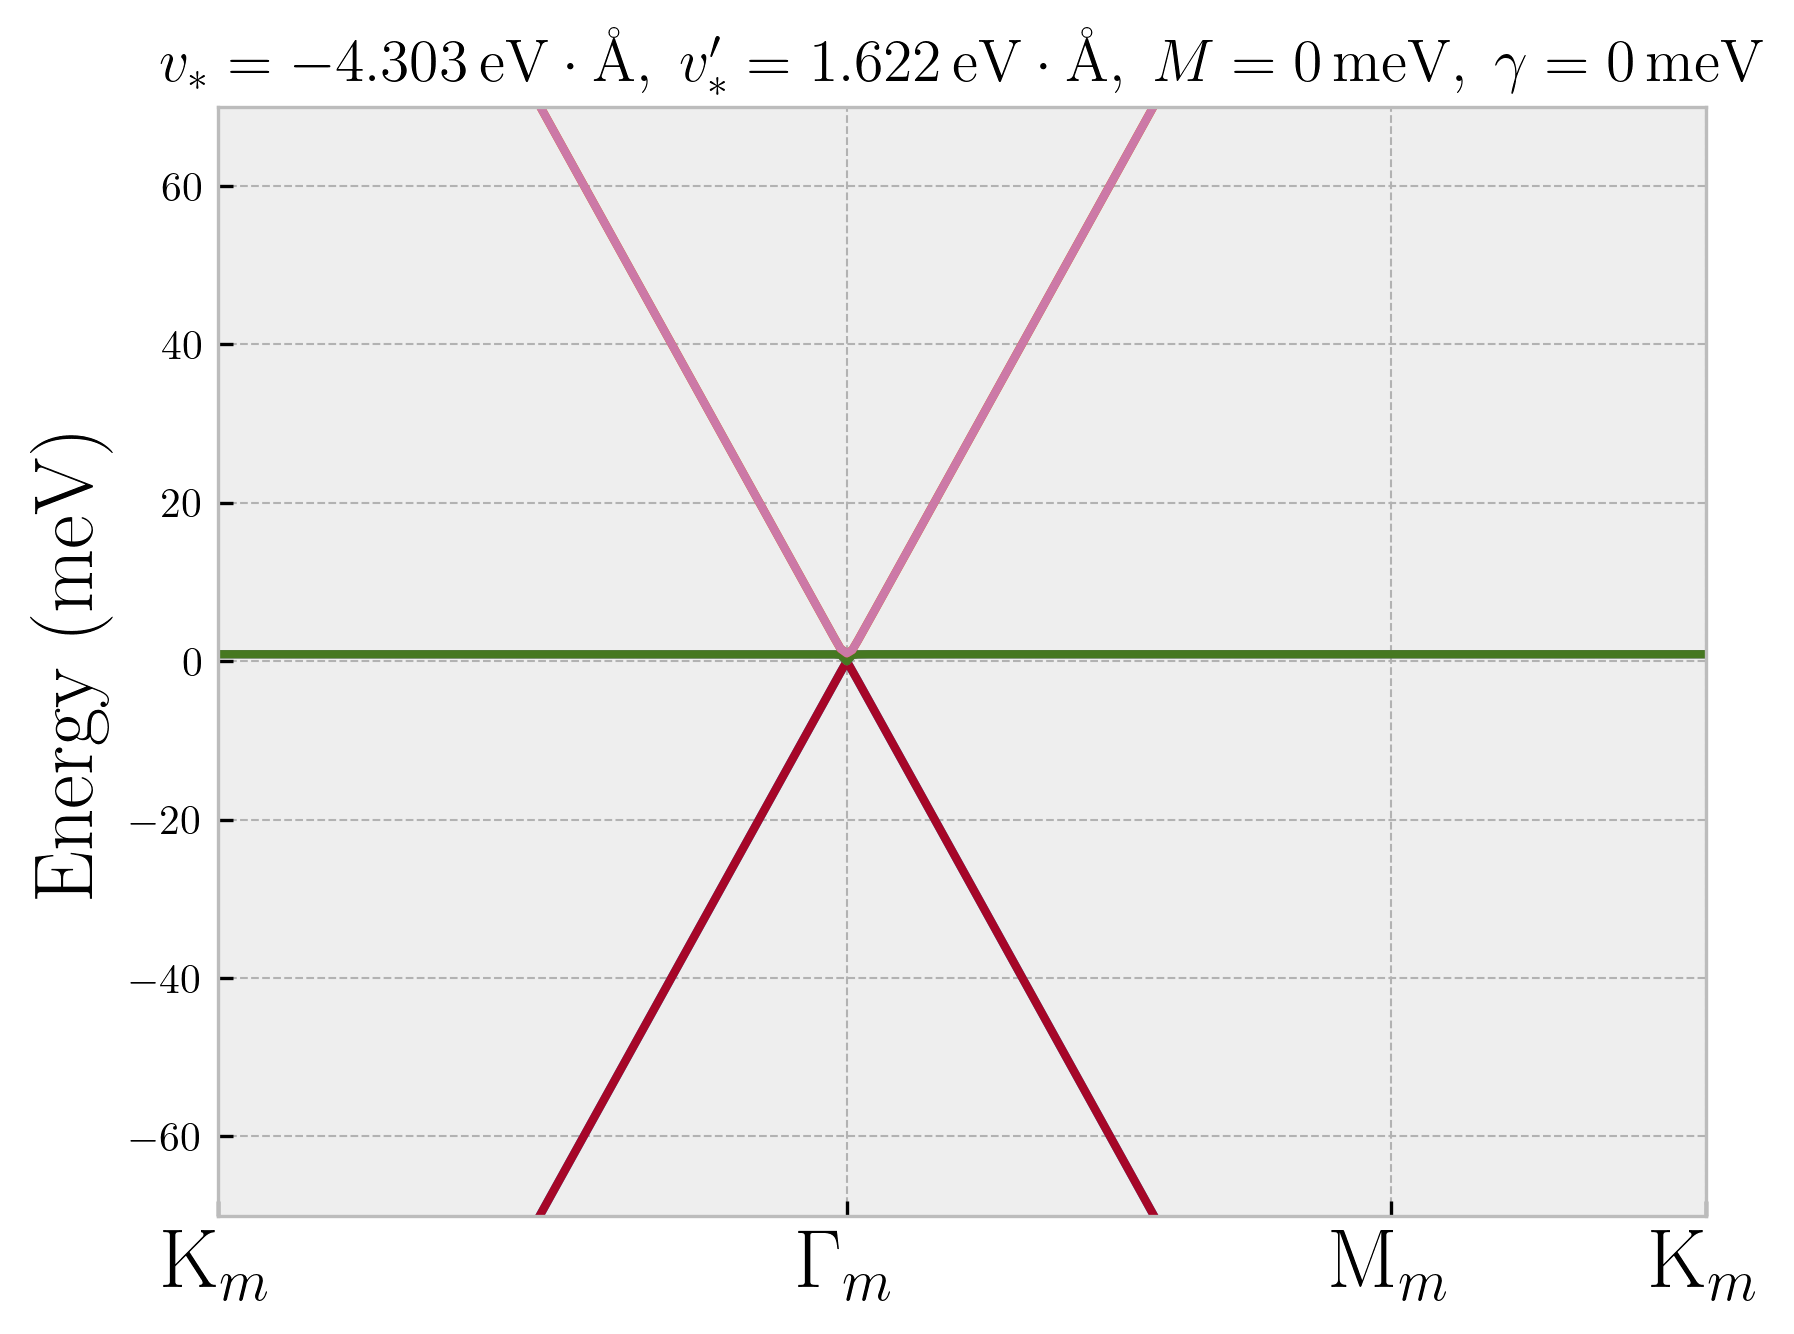
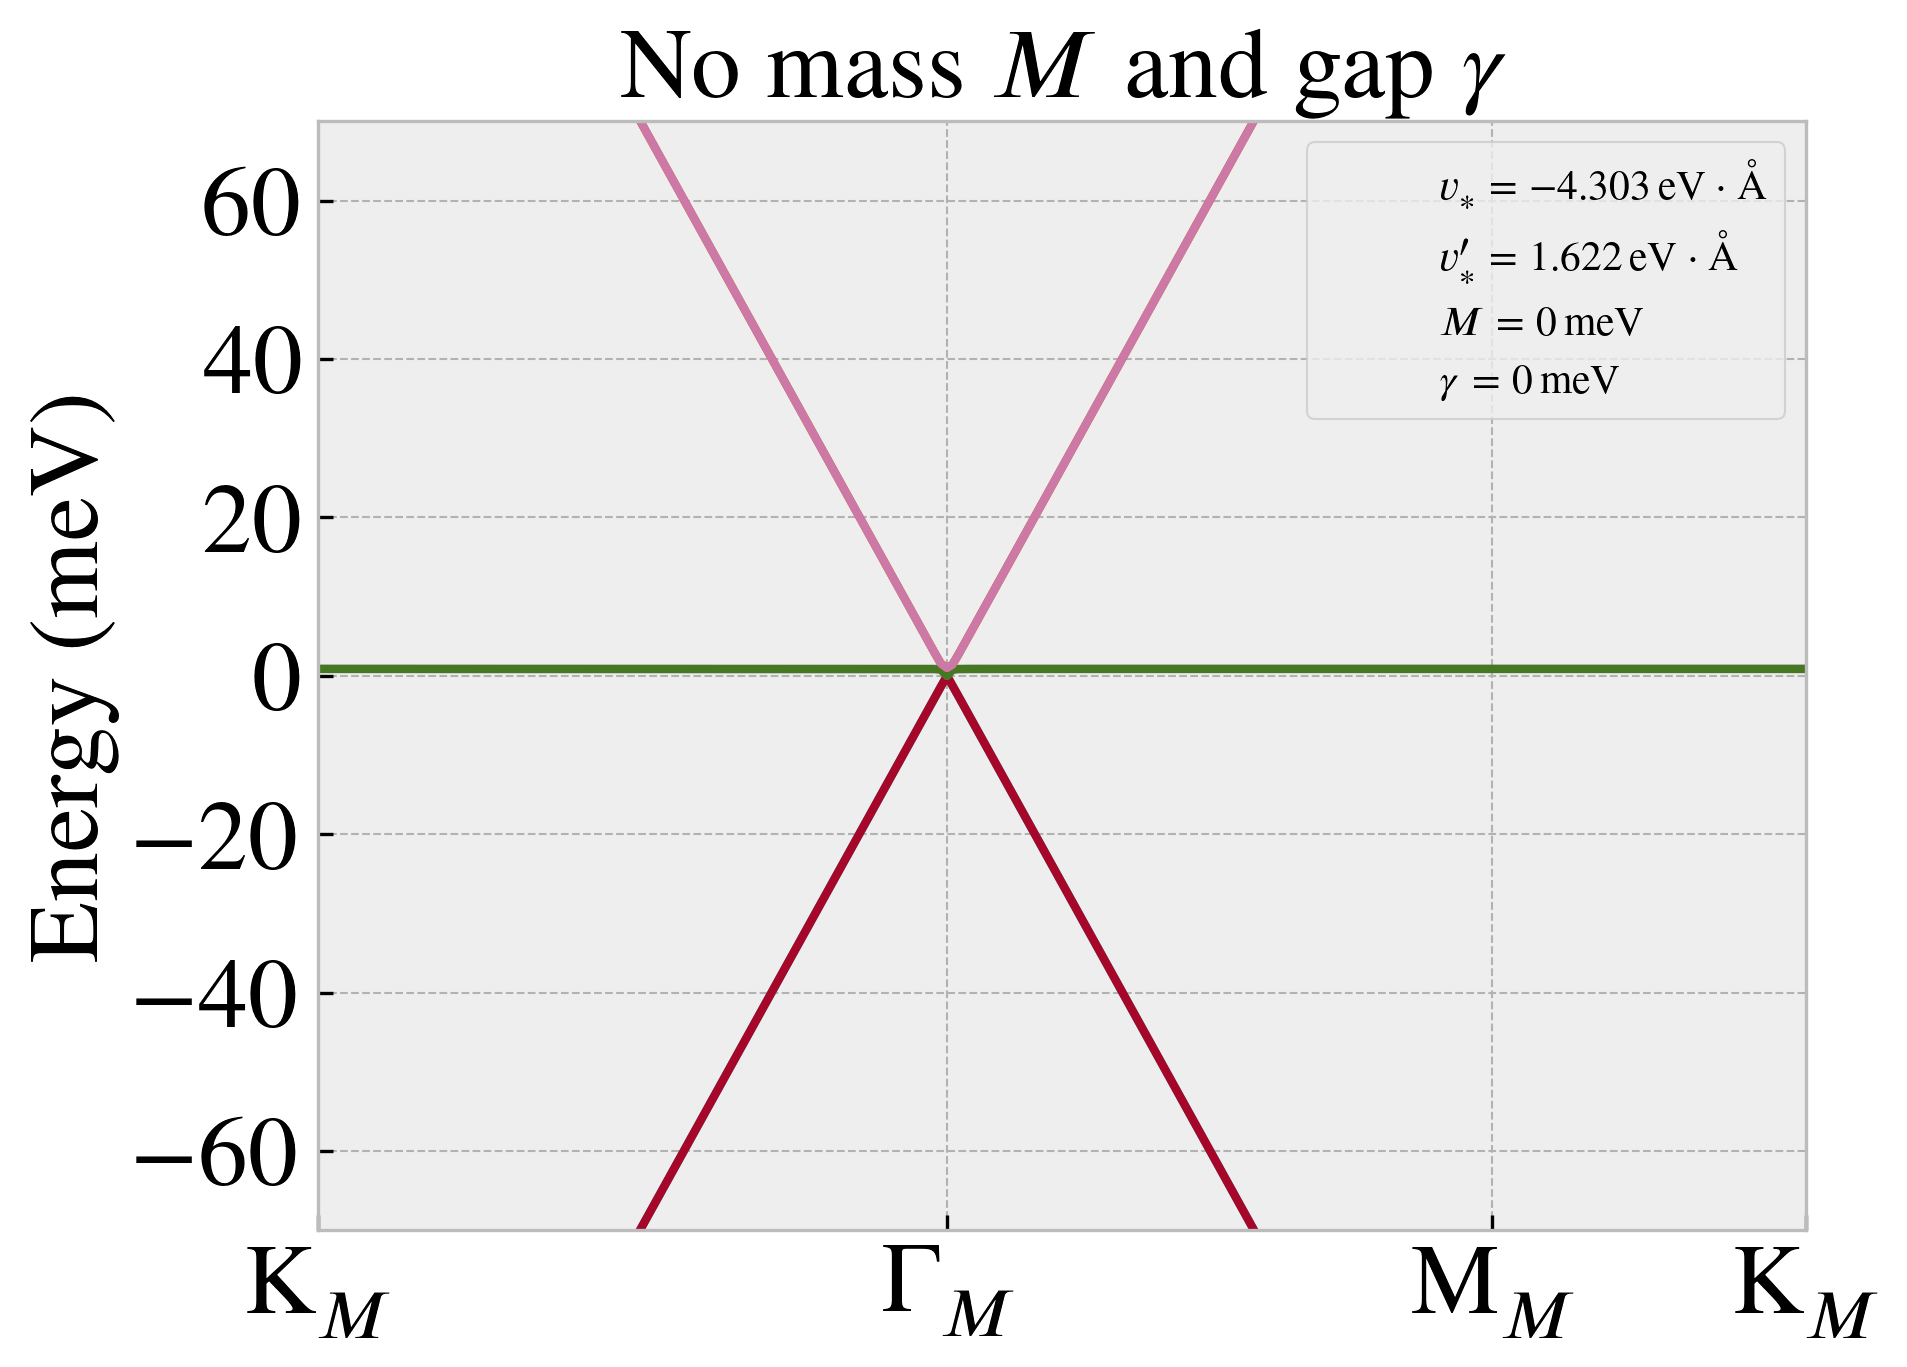
Updating some things according to the CPG report

diff --git a/latex/4-topoheavyfermion.tex b/latex/4-topoheavyfermion.tex
@@ -1,44 +1,14 @@
-%%%%%%%%%%%%%%%%%%%%%%%%%%%%%%% COMMENT THIS TO COMPILE main.tex %%%%%%%%%%%%%%%%%%%%%%%%%%%%%%%%
-\input{preamble}
-\begin{document}
-%%%%%%%%%%%%%%%%%%%%%%%%%%%%%%% COMMENT THIS TO COMPILE main.tex %%%%%%%%%%%%%%%%%%%%%%%%%%%%%%%%
+%%%%%%%%%%%%%%%%%%%%%%%%%%%%%%%% COMMENT THIS TO COMPILE main.tex %%%%%%%%%%%%%%%%%%%%%%%%%%%%%%%%
+%\input{preamble}
+%\begin{document}
+%%%%%%%%%%%%%%%%%%%%%%%%%%%%%%%% COMMENT THIS TO COMPILE main.tex %%%%%%%%%%%%%%%%%%%%%%%%%%%%%%%%
 
 
 %%%%%%%%%%%%%%%%%%%%%%%%%%%%%%%%%%%%%%%%%%%%%%%%%%%%%%%%%%%%%%%%%%%%%%%%%%%%%%%%%%%%%%%%%%%%%%%%%%
 \chapter{Topological heavy fermion}
 %%%%%%%%%%%%%%%%%%%%%%%%%%%%%%%%%%%%%%%%%%%%%%%%%%%%%%%%%%%%%%%%%%%%%%%%%%%%%%%%%%%%%%%%%%%%%%%%%%
 
-As proved in \cite{all_magic_angles}, when one includes the emergent particle-hole symmetry, the middle two flat bands in each valley must form the irreducible co-representations (dubbed as irreps) (\textbf{Lowest TBG Bands set by PH})
-\begin{equation} \label{eq:matbg-irreps}
-\Gamma_1 \oplus \Gamma_2; \; M_1 \oplus M_2; \; K_2 K_3
-\end{equation}
-of the magnetic space group $P6'2'2$. Comparing this irreps with the EBRs \cite{topological_quantum_chemistry2017}, we get the Table \ref{tab:matbg-irreps}. We see that the irreps at Equation \ref{eq:matbg-irreps} do not correspond to any of the local orbitals at \ref{tab:matbg-irreps}. In order to resolve the Wannier obstruction, we add the closest higher energy bands, which have the $\Gamma_3$ irrep at the $\Gamma_m$ point. These higher energy bands hybridize with the two middle ones, and we extract the trivial bands that form the band representation
-\begin{equation} \label{eq:trivial-irreps}
-[E]_a \uparrow G: \quad \Gamma_3; \; M_1 \oplus M_2; \; K_2 K_3,
-\end{equation}
-where $[E]_a$ is forme by $p_x, p_y$-like orbitals at the $1a$ Wyckoff position.
-
-\begin{table}[H]
-\tiny
-\caption{Elementary band representations of the magnetic space group $P6'2'2$.}
-\centering
-\begin{tabular}{|c|c|c|c|c|c|c|c|c|}
-\hline
-Wyckoff & \multicolumn{3}{c|}{$1a$} & \multicolumn{3}{c|}{$2c$} & \multicolumn{2}{c|}{$3f$} \\
-\cline{1-9}
-Site sym. & \multicolumn{3}{c|}{$6'2'2$, $32$} & \multicolumn{3}{c|}{$32$, $32$} & \multicolumn{2}{c|}{$2'2'2$, $2$} \\
-\cline{1-9}
-EBR & $G_{A_1}^{1a}(1)$ & $G_{A_2}^{1a}(1)$ & $G_{E}^{1a}(2)$ & $G_{A_1}^{2c}(2)$ & $G_{A_2}^{2c}(2)$ & $G_{E}^{2c}(4)$   & $G_{A}^{3f}(3)$ & $G_{B}^{3f}(3)$ \\
-\hline
-$\Gamma$ & $\Gamma_1(1)$ & $\Gamma_2(1)$ & $\Gamma_3(1)$ & $2\Gamma_1(1)$ & $2\Gamma_2(1)$ & $2\Gamma_3(2)$ & $\Gamma_1(1)+\Gamma_3(2)$ & $\Gamma_2(1)+\Gamma_3(2)$ \\
-\hline
-$K$ & $K_1(1)$ & $K_1(1)$ & $K_2 K_3(2)$ & $K_2 K_3(2)$ & $K_2 K_3(2)$ & $2K_1(1) + K_2 K_3(2)$ & $K_1(1)+K_2 K_3(2)$ & $K_1(1)+K_2 K_3(2)$ \\
-\hline
-$M$ & $M_1(1)$ & $M_2(1)$ & $M_1(1)+M_2(1)$ & $2M_1(1)$ & $2M_2(1)$ & $2M_1(1)+2M_2(1)$ & $2M_1(1)+M_2(1)$ & $M_1(1)+2M_2(2)$ \\
-\hline
-\end{tabular}
-\label{tab:matbg-irreps}
-\end{table}
+The representations and Elementary Band Representations (EBRs) for a given (magnetic) space group, such as \( P6'2'2 \), can be conveniently obtained from the Bilbao Crystallographic Server \cite{bilbao_1, bilbao_2}.
 
 \begin{table}[H]
 \caption{Character table of irreps at high symmetry momenta in magnetic space group $P6'2'2$.}
@@ -54,6 +24,91 @@ $3 C_2'$ & $\P1$ & $ -1$ & $\P0$ & $\P$ & $\P$ & $\P$ & $\P C_3^{-1}$ & $\P1$ & 
 \end{tabular}
 \label{tab:P6'2'2}
 \end{table}
+
+\begin{table}[H]
+\footnotesize
+\caption{Elementary band representations of the magnetic space group $P6'2'2$.}
+\centering
+\begin{tabular}{|c|c|c|c|c|c|c|c|c|}
+\hline
+Wyckoff & \multicolumn{3}{c|}{$1a$} & \multicolumn{3}{c|}{$2c$} & \multicolumn{2}{c|}{$3f$} \\
+\cline{1-9}
+Site sym. & \multicolumn{3}{c|}{$6'2'2$, $32$} & \multicolumn{3}{c|}{$32$, $32$} & \multicolumn{2}{c|}{$2'2'2$, $2$} \\
+\cline{1-9}
+EBR & $G_{A_1}^{1a}(1)$ & $G_{A_2}^{1a}(1)$ & $G_{E}^{1a}(2)$ & $G_{A_1}^{2c}(2)$ & $G_{A_2}^{2c}(2)$ & $G_{E}^{2c}(4)$   & $G_{A}^{3f}(3)$ & $G_{B}^{3f}(3)$ \\
+\hline
+$\Gamma$ & $\Gamma_1$ & $\Gamma_2$ & $\Gamma_3$ & $2\Gamma_1$ & $2\Gamma_2$ & $2\Gamma_3$ & $\Gamma_1+\Gamma_3$ & $\Gamma_2+\Gamma_3$ \\
+\hline
+$K$ & $K_1$ & $K_1$ & $K_2 K_3$ & $K_2 K_3$ & $K_2 K_3$ & $2K_1 + K_2 K_3$ & $K_1+K_2 K_3$ & $K_1+K_2 K_3$ \\
+\hline
+$M$ & $M_1$ & $M_2$ & $M_1+M_2$ & $2M_1$ & $2M_2$ & $2M_1+2M_2$ & $2M_1+M_2$ & $M_1+2M_2$ \\
+\hline
+\end{tabular}
+\label{tab:matbg-irreps}
+\end{table}
+
+As demonstrated in \cite{all_magic_angles}, incorporating the emergent particle-hole symmetry within the One Valley BM model ensures that the middle two flat bands in each valley align with the irreducible co-representations (irreps):
+\begin{equation} \label{eq:matbg-irreps}
+\Gamma_1(1) \oplus \Gamma_2(1); \; M_1(1) \oplus M_2(1); \; K_2 K_3(2),
+\end{equation}
+associated with the magnetic space group \( P6'2'2 \). The characters for each of these irreps, referenced in Equation \ref{eq:matbg-irreps}, are presented in Table \ref{tab:P6'2'2}.
+
+
+By comparing the irreps in Equation \ref{eq:matbg-irreps} with the EBRs in Table \ref{tab:matbg-irreps}, we observe that the irreps in Equation \ref{eq:matbg-irreps} cannot be expressed as a direct sum of the local orbitals listed in Table \ref{tab:matbg-irreps}. In fact, if we permit negative coefficients, the irreps can only be expressed as the linear combination \( G_{A_1}^{2c} + G_{A_2}^{1a} - G_{A_1}^{1a} \). The presence of a negative coefficient indicates that the two flat bands must host at least a fragile topological phase \cite{FragileTopology_Po2018}, leading to a Wannier obstruction.
+
+To resolve this Wannier obstruction, we incorporate the nearest higher-energy bands, which are characterized by the \(\Gamma_3\) irrep at the \(\Gamma_M\) point \cite{topoheavyfermion2022}. These higher-energy bands hybridize with the two middle bands, allowing us to isolate the trivial bands. These trivial bands form the band representation:
+\begin{equation} \label{eq:trivial-irreps}
+G_E^{1a}(2) = [E]_{1a} \uparrow G: \quad \Gamma_3(2); \; M_1(1) \oplus M_2(1); \; K_2 K_3(2),
+\end{equation}
+where \([E]_{1a}\) corresponds to \(p_x \pm i p_y\)-like orbitals at the \(1a\) Wyckoff position.
+
+We ``borrow'' a $\Gamma_3$ irrep from these higher-energy bands to replace the $\Gamma_1 \oplus \Gamma_2$ states. The resulting irreps $\Gamma_3$, $M_1 \oplus M_2$, $K_2 K_3$ are consistent with $p_x \pm i p_y$ orbitals on a triangular lattice. To model this, Gaussian Wannier functions (WFs) that transform as $p_x \pm i p_y$ under the crystal symmetries are introduced.
+
+Using the maximal localization procedure \cite{maxlocalWFs_marzari2012, wannier90}, we find that these WFs are highly localized, supported by flat band states away from $\Gamma_M$, and by low-energy states near $\Gamma_M$. However, to fully account for the superconducting properties, it is crucial to include the remaining states. To achieve this, we define projectors $\bP$ (onto the WFs) and $\I$ (onto the lowest six bands per spin-valley), and decompose the BM Hamiltonian $H_\text{BM}$ into the following components:
+\begin{equation} \label{eq:projected_hamiltonians_WFs_PQ}
+H^{(f)} = \bP H_\text{BM} \bP, \quad H^{(c)} = \bQ H_\text{BM} \bQ, \quad H^{(fc)} = \bP H_\text{BM} \bQ, \quad H^{(cf)} = H^{(fc)\dagger},
+\end{equation}
+where $\bQ = \I - \bP$. Since the coupling between WFs is extremely weak, the approximation $H^{(f)} \approx 0$ proves to be highly accurate.
+
+The two states in $\bP$ form $\Gamma_3$ at $\Gamma_M$, while the four states in $\bQ$ form $\Gamma_3 \oplus \Gamma_1 \oplus \Gamma_2$. The remaining Hamiltonian $H^{(c)}$ in valley $\eta$ is expressed as:
+\begin{equation} \label{eq:H(c)_topoheavyfermion}
+H^{(c, \eta)}(\k) =
+\begin{pmatrix}
+0_{2\times 2} & v_* (\eta k_x \sigma_0 + i k_y \sigma_z) \\
+v_* (\eta k_x \sigma_0 - i k_y \sigma_z) & M \sigma_x
+\end{pmatrix}.
+\end{equation}
+
+The coupling $H^{(fc)}$ takes the form:
+\begin{equation} \label{eq:H(fc)_topoheavyfermion}
+H^{(fc, \eta)}(\k) =
+\begin{pmatrix}
+\gamma \sigma_0 + v'_* (\eta k_x \sigma_x + k_y \sigma_y) & 0_{2\times 2}
+\end{pmatrix},
+\end{equation}
+which introduces a gap in $H^{(c, \eta)}$, establishing the flat band topology of the BM model.
+
+Using standard parameters for MATBG, this mapping provides the parameter values:
+\begin{equation} \label{eq:paramaters_topoheavyfermion}
+v^\star = -4.303 \, \text{eV} \cdot \AA, \quad M = 3.697 \, \text{meV}, \quad \gamma = -24.75 \, \text{meV}, \quad v'^\star = 1.622 \, \text{eV} \cdot \AA.
+\end{equation}
+
+By diagonalizing the resulting 6-band model for the valley $\eta = +$, constructed from the Hamiltonians $H^{(c,\eta)}$ and $H^{(fc,\eta)}$, we obtain the results shown in Figure \ref{fig:thf-exploration}. We analyze the cases where certain parameters are set to zero to study the model's behavior.
+
+\begin{figure}[H]
+\centering
+\includegraphics[height=0.35\linewidth]{fig/thf-correct_params.png}
+\includegraphics[height=0.35\linewidth]{fig/thf-no_M_no_gamma.png}
+%%\caption{}
+%\label{fig:thf-correct_params}
+%\end{figure}
+%\begin{figure}[H]
+%\centering
+\includegraphics[height=0.35\linewidth]{fig/thf-no_M.png}
+\includegraphics[height=0.35\linewidth]{fig/thf-no_coupling.png}
+\caption{Band structures for the 6-band non-interacting Topological Heavy Fermion model, showing the effect of different parameters on the electronic states. Each panel illustrates a variation of the model with certain parameters set to zero.}
+\label{fig:thf-exploration}
+\end{figure}
 
 %%%%%%%%%%%%%%%%%%%%%%%%%%%%%%%%%%%%%%%%%%%%%%%%%%%%%%%%%%%%%%%%%%%%%%%%%%%%%%%%%%%%%%%%%%%%%%%%%%
 \section{Monolayer}
@@ -261,25 +316,6 @@ $3C_2''$ & $\P1$ & $ -1$ & $\P1$ & $ -1$ & $\P0$ & $\P0$ &         &       &    
 
 Compare tables \ref{tab:ebr-P622} and \ref{tab:char-P622} with tables 2.5 and (2.1, 2.3) of Rennella \cite{thesis_rennella}, respectively.
 
-%%%%%%%%%%%%%%%%%%%%%%%%%%%%%%%%%%%%%%%%%%%%%%%%%%%%%%%%%%%%%%%%%%%%%%%%%%%%%%%%%%%%%%%%%%%%%%%%%%
-\section{Numerical Results}
-%%%%%%%%%%%%%%%%%%%%%%%%%%%%%%%%%%%%%%%%%%%%%%%%%%%%%%%%%%%%%%%%%%%%%%%%%%%%%%%%%%%%%%%%%%%%%%%%%%
-
-\begin{figure}[H]
-\centering
-\includegraphics[height=0.35\linewidth]{fig/thf-correct_params.png}
-\includegraphics[height=0.35\linewidth]{fig/thf-no_M_no_gamma.png}
-%\caption{}
-\label{fig:thf-correct_params}
-\end{figure}
-
-\begin{figure}[H]
-\centering
-\includegraphics[height=0.35\linewidth]{fig/thf-no_M.png}
-\includegraphics[height=0.35\linewidth]{fig/thf-no_coupling.png}
-%\caption{}
-\label{fig:thf-exploration}
-\end{figure}
 
 
 
@@ -287,13 +323,13 @@ Compare tables \ref{tab:ebr-P622} and \ref{tab:char-P622} with tables 2.5 and (2
 %%%%%%%%%%%%%%%%%%%%%%%%%%%%%%%%%%%%%%%%%%%%%%%%%%%%%%%%%%%%%%%%%%%%%%%%%%%%%%%%%%%%%%%%%%%%%%%%%%
 
 
-%%%%%%%%%%%%%%%%%%%%%%%%%%%%%%% COMMENT THIS TO COMPILE main.tex %%%%%%%%%%%%%%%%%%%%%%%%%%%%%%%%
-%%-----
-%% Referências bibliográficas
-%%-----
-\addcontentsline{toc}{chapter}{\bibname}
-%\bibliographystyle{abntex2-num}
-\bibliography{citations}
-\bibliographystyle{ieeetr}
-\end{document}
-%%%%%%%%%%%%%%%%%%%%%%%%%%%%%%% COMMENT THIS TO COMPILE main.tex %%%%%%%%%%%%%%%%%%%%%%%%%%%%%%%%
+%%%%%%%%%%%%%%%%%%%%%%%%%%%%%%%% COMMENT THIS TO COMPILE main.tex %%%%%%%%%%%%%%%%%%%%%%%%%%%%%%%%
+%%%-----
+%%% Referências bibliográficas
+%%%-----
+%\addcontentsline{toc}{chapter}{\bibname}
+%%\bibliographystyle{abntex2-num}
+%\bibliography{citations}
+%\bibliographystyle{ieeetr}
+%\end{document}
+%%%%%%%%%%%%%%%%%%%%%%%%%%%%%%%% COMMENT THIS TO COMPILE main.tex %%%%%%%%%%%%%%%%%%%%%%%%%%%%%%%%

diff --git a/latex/2-symm.tex b/latex/2-symm.tex
@@ -1,7 +1,7 @@
-%%%%%%%%%%%%%%%%%%%%%%%%%%%%%%%% COMMENT THIS TO COMPILE main.tex %%%%%%%%%%%%%%%%%%%%%%%%%%%%%%%%
-\input{preamble}
-\begin{document}
-%%%%%%%%%%%%%%%%%%%%%%%%%%%%%%%% COMMENT THIS TO COMPILE main.tex %%%%%%%%%%%%%%%%%%%%%%%%%%%%%%%%
+%%%%%%%%%%%%%%%%%%%%%%%%%%%%%%%%% COMMENT THIS TO COMPILE main.tex %%%%%%%%%%%%%%%%%%%%%%%%%%%%%%%%
+%\input{preamble}
+%\begin{document}
+%%%%%%%%%%%%%%%%%%%%%%%%%%%%%%%%% COMMENT THIS TO COMPILE main.tex %%%%%%%%%%%%%%%%%%%%%%%%%%%%%%%%
 
 %%%%%%%%%%%%%%%%%%%%%%%%%%%%%%%%%%%%%%%%%%%%%%%%%%%%%%%%%%%%%%%%%%%%%%%%%%%%%%%%%%%%%%%%%%%%%%%%%%
 \chapter{Groups and Representations} \label{ch:group_theory}
@@ -1136,17 +1136,21 @@ To better grasp the concept introduced in Definition \ref{def:magnetic_group}, w
 \item Black-and-white groups can be understood as systems where, for every primed element (black), there exists a corresponding unprimed element (white). This mirrors the interplay between symmetry operations that involve time reversal and those that do not.
 \end{enumerate}
 
+The magnetic point group of the BM model of TBG is \(6'2'2\) in Hermann-Mauguin notation. In this notation, the generators of the symmetry group can be chosen as \(C_{6z} T\), \(C_{2y} T\), and \(C_{2x}\). This magnetic point group corresponds to the magnetic space group \(P6'2'2\). Understanding the symmetry operations within \(P6'2'2\) is crucial for modeling an interacting model for twisted bilayer graphene and exploring the topological phases that emerge in the system.
+
+Figure \ref{fig:622_magnetic} illustrates the symmetries of the \(6'2'2\) magnetic point group. The black and white circles represent objects with distinct time-reversal properties, with \(+\) and \(-\) indicating the top and bottom layers, respectively. The dashed red lines indicate the \(C_2 T\) axes, which invert both the sign and the color of the circles. When \(C_{6z} T\) is applied, the circles are rotated by \(60^\circ\) around the $z$ axis, and their color is inverted as well, showcasing the combined effect of the sixfold rotation and time-reversal symmetry.
+
 
 \begin{figure}[H]
 \centering
 \includegraphics[width=0.5\linewidth]{fig/622_magnetic.png}
-\caption{Representation of the magnetic point group $6'2'2$. \textbf{A FIGURA ESTÁ COM UM ERRO}, no South-East tá trocado $+$ e $-$.}
+\caption{Illustration of the magnetic point group \(6'2'2\), where black and white represent time-reversal symmetry, and \(+\) and \(-\) denote different layers.}
 \label{fig:622_magnetic}
 \end{figure}
 
-\begin{example} \label{ex:magnetic_group_tbg_6'2'2}
-The magnetic point group of the BM model of TBG is $6'2'2$ in Hermann-Mauguin notation. According to the notation, we can choose its generators to be $C_{6z} T$, $C_{2y} T$ and $C_{2x}$.
-\end{example}
+%\begin{example} \label{ex:magnetic_group_tbg_6'2'2}
+%The magnetic point group of the BM model of TBG is $6'2'2$ in Hermann-Mauguin notation. According to the notation, we can choose its generators to be $C_{6z} T$, $C_{2y} T$ and $C_{2x}$.
+%\end{example}
 
 
 
@@ -1158,13 +1162,13 @@ The magnetic point group of the BM model of TBG is $6'2'2$ in Hermann-Mauguin no
 %%%%%%%%%%%%%%%%%%%%%%%%%%%%%%%%%%%%%%%%%%%%%%%%%%%%%%%%%%%%%%%%%%%%%%%%%%%%%%%%%%%%%%%%%%%%%%%%%%
 
 
-%%%%%%%%%%%%%%%%%%%%%%%%%%%%%%%% COMMENT THIS TO COMPILE main.tex %%%%%%%%%%%%%%%%%%%%%%%%%%%%%%%%
-%%-----
-%% Referências bibliográficas
-%%-----
-\addcontentsline{toc}{chapter}{\bibname}
-%\bibliographystyle{abntex2-num}
-\bibliography{citations}
-\bibliographystyle{ieeetr}
-\end{document}
-%%%%%%%%%%%%%%%%%%%%%%%%%%%%%%%% COMMENT THIS TO COMPILE main.tex %%%%%%%%%%%%%%%%%%%%%%%%%%%%%%%%
+%%%%%%%%%%%%%%%%%%%%%%%%%%%%%%%%% COMMENT THIS TO COMPILE main.tex %%%%%%%%%%%%%%%%%%%%%%%%%%%%%%%%
+%%%-----
+%%% Referências bibliográficas
+%%%-----
+%\addcontentsline{toc}{chapter}{\bibname}
+%%\bibliographystyle{abntex2-num}
+%\bibliography{citations}
+%\bibliographystyle{ieeetr}
+%\end{document}
+%%%%%%%%%%%%%%%%%%%%%%%%%%%%%%%%% COMMENT THIS TO COMPILE main.tex %%%%%%%%%%%%%%%%%%%%%%%%%%%%%%%%

diff --git a/latex/3-wannier.tex b/latex/3-wannier.tex
@@ -1,7 +1,7 @@
-%%%%%%%%%%%%%%%%%%%%%%%%%%%%%%% COMMENT THIS TO COMPILE main.tex %%%%%%%%%%%%%%%%%%%%%%%%%%%%%%%%
-\input{preamble}
-\begin{document}
-%%%%%%%%%%%%%%%%%%%%%%%%%%%%%%% COMMENT THIS TO COMPILE main.tex %%%%%%%%%%%%%%%%%%%%%%%%%%%%%%%%
+%%%%%%%%%%%%%%%%%%%%%%%%%%%%%%%% COMMENT THIS TO COMPILE main.tex %%%%%%%%%%%%%%%%%%%%%%%%%%%%%%%%
+%\input{preamble}
+%\begin{document}
+%%%%%%%%%%%%%%%%%%%%%%%%%%%%%%%% COMMENT THIS TO COMPILE main.tex %%%%%%%%%%%%%%%%%%%%%%%%%%%%%%%%
 
 
 %%%%%%%%%%%%%%%%%%%%%%%%%%%%%%%%%%%%%%%%%%%%%%%%%%%%%%%%%%%%%%%%%%%%%%%%%%%%%%%%%%%%%%%%%%%%%%%%%%
@@ -352,7 +352,7 @@ The \textit{atomic limit} refers to bands that can be constructed from localized
 A set of bands are in the \textbf{atomic limit} of a space group if they can be induced from localized Wannier functions consistent with the crystalline symmetry of that space group. Otherwise, they are \textbf{topological}.
 \end{definition}
 
-Band representations describe a system in the atomic limit. Topological band must be groups of bands that satisfy the crystal symmetry in momentum space, but nevertheless do not transform as a band representation. In other words, they cannot be induced from localized Wannier orbitals that obey the crystal symmetry.
+Band representations describe systems in the atomic limit, where bands can be derived from localized Wannier orbitals that respect the crystal's symmetry. In contrast, topological bands are groups of bands that adhere to the crystal symmetry in momentum space but cannot be expressed as a band representation. This means they cannot be induced from symmetry-preserving localized Wannier orbitals. This inability is referred to as a \textit{Wannier obstruction} \cite{FragileTopology_Po2018, building_blocks2018}.
 
 \begin{theorem} \label{th:topo_insul}
 Any isolated set of bands that is not equivalent to a band representation (composite or elementary) gives a strong, weak, or crystalline topological insulator.
@@ -380,13 +380,13 @@ If the irreps of \(\mathcal{B}\) can be written as a linear combination of EBRs,
 %%%%%%%%%%%%%%%%%%%%%%%%%%%%%%%%%%%%%%%%%%%%%%%%%%%%%%%%%%%%%%%%%%%%%%%%%%%%%%%%%%%%%%%%%%%%%%%%%%
 
 
-%%%%%%%%%%%%%%%%%%%%%%%%%%%%%%% COMMENT THIS TO COMPILE main.tex %%%%%%%%%%%%%%%%%%%%%%%%%%%%%%%%
-%%-----
-%% Referências bibliográficas
-%%-----
-\addcontentsline{toc}{chapter}{\bibname}
-%\bibliographystyle{abntex2-num}
-\bibliography{citations}
-\bibliographystyle{ieeetr}
-\end{document}
-%%%%%%%%%%%%%%%%%%%%%%%%%%%%%%% COMMENT THIS TO COMPILE main.tex %%%%%%%%%%%%%%%%%%%%%%%%%%%%%%%%
+%%%%%%%%%%%%%%%%%%%%%%%%%%%%%%%% COMMENT THIS TO COMPILE main.tex %%%%%%%%%%%%%%%%%%%%%%%%%%%%%%%%
+%%%-----
+%%% Referências bibliográficas
+%%%-----
+%\addcontentsline{toc}{chapter}{\bibname}
+%%\bibliographystyle{abntex2-num}
+%\bibliography{citations}
+%\bibliographystyle{ieeetr}
+%\end{document}
+%%%%%%%%%%%%%%%%%%%%%%%%%%%%%%%% COMMENT THIS TO COMPILE main.tex %%%%%%%%%%%%%%%%%%%%%%%%%%%%%%%%

diff --git a/latex/preamble.tex b/latex/preamble.tex
@@ -95,6 +95,10 @@
 
 \newcommand{\GL}{{\text{GL}}}
 \newcommand{\U}{{\text{U}}}
+\renewcommand{\AA}{{\mathring{\text{A}}}}
+\newcommand{\I}{{\mathbb{I}}}
+\newcommand{\bP}{{\mathbb{P}}}
+\newcommand{\bQ}{{\mathbb{Q}}}
 
 \newcommand{\s}{\sigma}
 %\newcommand{\prodint}[2]{\left\langle #1 , #2 \right\rangle}
